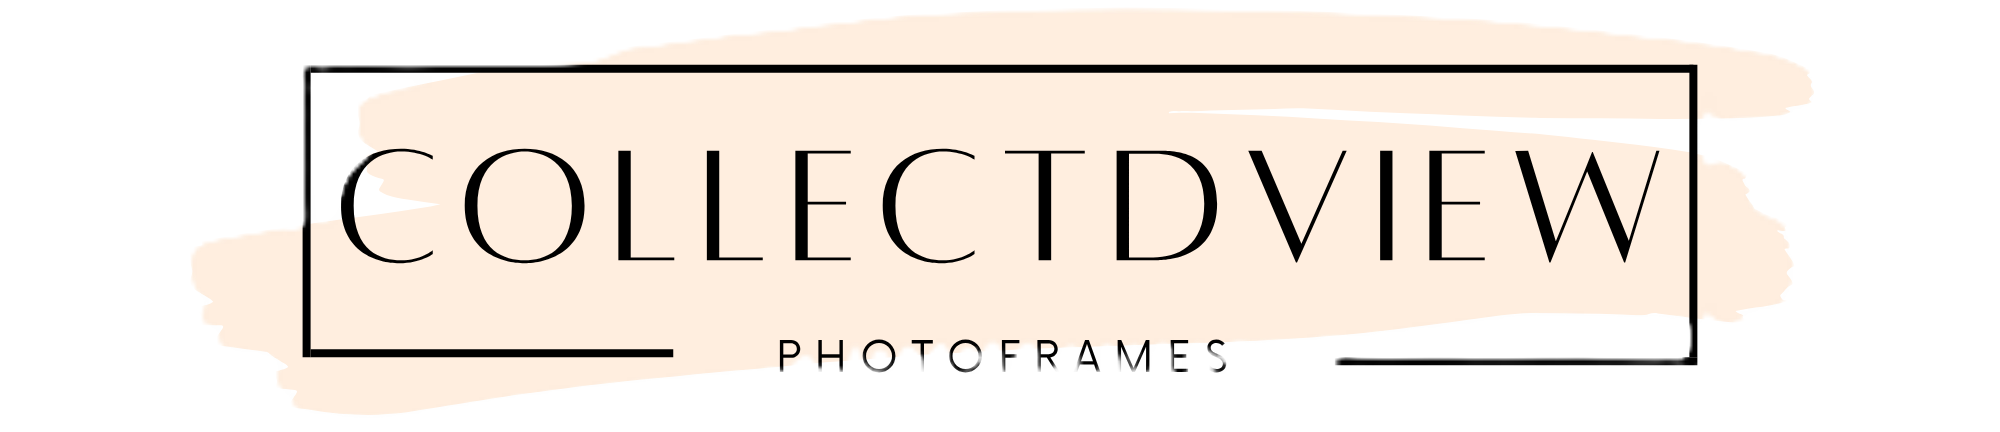
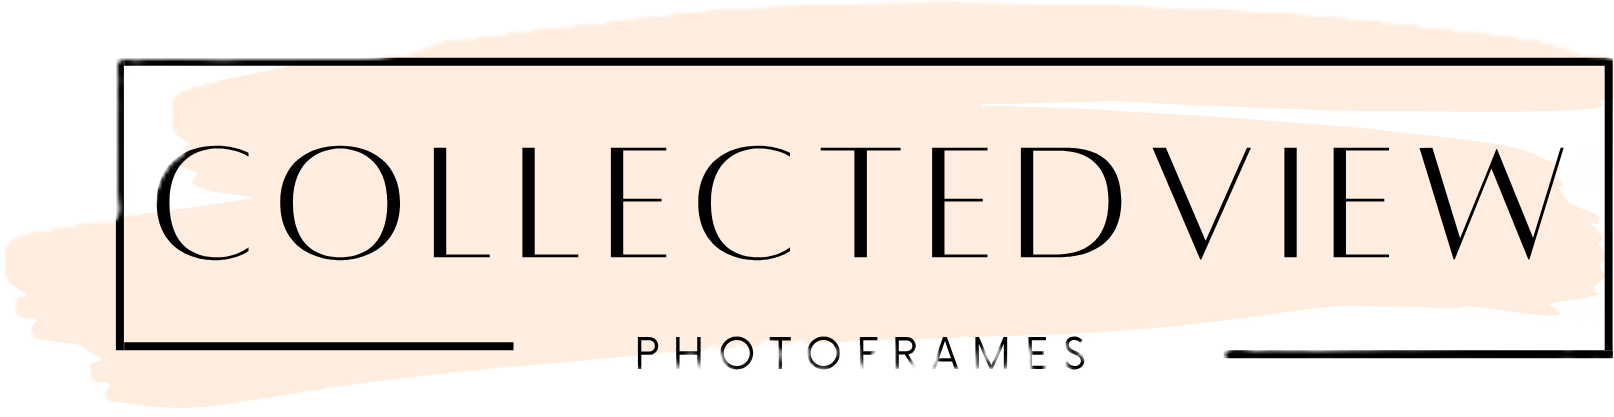
second

Changed region(s): [[0.0, 0.0, 1.0, 0.9976]]

diff --git a/home.html b/home.html
@@ -11,9 +11,15 @@
         #menu-toggle:checked ~ #mobile-menu {
             display: block;
         }
+        /* Ensuring no extra space at the bottom */
+        html, body {
+            margin: 0;
+            padding: 0;
+            overflow-x: hidden;
+        }
     </style>
 </head>
-<body class="bg-gray-50 font-sans">
+<body class="bg-gray-50 font-sans flex flex-col min-h-screen">
 
     <nav class="bg-white shadow-md sticky top-0 z-50">
         <div class="max-w-7xl mx-auto px-4 flex justify-between items-center h-20 md:h-24">
@@ -46,69 +52,68 @@
         </div>
     </nav>
 
-    <header class="relative h-[70vh] flex items-center justify-center text-center text-white">
-        <img src="https://images.unsplash.com/photo-1513519245088-0e12902e5a38?auto=format&fit=crop&q=80&w=2070" 
-             alt="Frames Background" class="absolute inset-0 w-full h-full object-cover brightness-50">
-        <div class="relative z-10 px-4">
-            <h2 class="text-4xl md:text-6xl font-serif mb-4">Preserve Your Memories</h2>
-            <p class="text-lg md:text-xl mb-8 max-w-2xl mx-auto">Premium quality custom frames for your photos, art, and special moments.</p>
-            <a href="PRINT.HTML" class="bg-white text-gray-900 px-8 py-3 rounded-lg font-bold hover:bg-gray-200 transition">PRINT YOUR MEMORIES</a>
-        </div>
-    </header>
+    <main class="flex-grow">
+        <header class="relative h-[70vh] flex items-center justify-center text-center text-white">
+            <img src="https://images.unsplash.com/photo-1513519245088-0e12902e5a38?auto=format&fit=crop&q=80&w=2070" 
+                 alt="Frames Background" class="absolute inset-0 w-full h-full object-cover brightness-50">
+            <div class="relative z-10 px-4">
+                <h2 class="text-4xl md:text-6xl font-serif mb-4">Preserve Your Memories</h2>
+                <p class="text-lg md:text-xl mb-8 max-w-2xl mx-auto">Premium quality custom frames for your photos, art, and special moments.</p>
+                <a href="PRINT.HTML" class="bg-white text-gray-900 px-8 py-3 rounded-lg font-bold hover:bg-gray-200 transition">PRINT YOUR MEMORIES</a>
+            </div>
+        </header>
 
-    <section id="services" class="py-16 px-6 max-w-6xl mx-auto">
-        <h3 class="text-3xl font-bold text-center mb-12">Our Services</h3>
-        <div class="grid md:grid-cols-3 gap-8">
-            <div class="bg-white p-6 rounded-xl shadow-sm border border-gray-100 hover:shadow-lg transition">
-                <i class="fa-solid fa-frame text-4xl text-amber-600 mb-4"></i>
-                <h4 class="text-xl font-bold mb-2">Custom Framing</h4>
-                <p class="text-gray-600">Tailor-made frames available in wood, metal, and synthetic materials.</p>
+        <section id="services" class="py-16 px-6 max-w-6xl mx-auto">
+            <h3 class="text-3xl font-bold text-center mb-12">Our Services</h3>
+            <div class="grid md:grid-cols-3 gap-8">
+                <div class="bg-white p-6 rounded-xl shadow-sm border border-gray-100 hover:shadow-lg transition">
+                    <i class="fa-solid fa-frame text-4xl text-amber-600 mb-4"></i>
+                    <h4 class="text-xl font-bold mb-2">Custom Framing</h4>
+                    <p class="text-gray-600">Tailor-made frames available in wood, metal, and synthetic materials.</p>
+                </div>
+                <div class="bg-white p-6 rounded-xl shadow-sm border border-gray-100 hover:shadow-lg transition">
+                    <i class="fa-solid fa-image text-4xl text-amber-600 mb-4"></i>
+                    <h4 class="text-xl font-bold mb-2">Canvas Printing</h4>
+                    <p class="text-gray-600">High-quality prints on premium canvas with gallery wrap options.</p>
+                </div>
+                <div class="bg-white p-6 rounded-xl shadow-sm border border-gray-100 hover:shadow-lg transition">
+                    <i class="fa-solid fa-gift text-4xl text-amber-600 mb-4"></i>
+                    <h4 class="text-xl font-bold mb-2">Gift Framing</h4>
+                    <p class="text-gray-600">Specially designed frames for birthdays, weddings, and anniversaries.</p>
+                </div>
             </div>
-            <div class="bg-white p-6 rounded-xl shadow-sm border border-gray-100 hover:shadow-lg transition">
-                <i class="fa-solid fa-image text-4xl text-amber-600 mb-4"></i>
-                <h4 class="text-xl font-bold mb-2">Canvas Printing</h4>
-                <p class="text-gray-600">High-quality prints on premium canvas with gallery wrap options.</p>
-            </div>
-            <div class="bg-white p-6 rounded-xl shadow-sm border border-gray-100 hover:shadow-lg transition">
-                <i class="fa-solid fa-gift text-4xl text-amber-600 mb-4"></i>
-                <h4 class="text-xl font-bold mb-2">Gift Framing</h4>
-                <p class="text-gray-600">Specially designed frames for birthdays, weddings, and anniversaries.</p>
-            </div>
-        </div>
-        <div class="text-center mt-10">
-            <a href="#" class="text-amber-600 font-bold hover:underline">Explore All Services &rarr;</a>
-        </div>
-    </section>
+        </section>
 
-    <section id="gallery" class="bg-gray-100 py-16 px-6">
-        <h3 class="text-3xl font-bold text-center mb-12">CATEGORIES</h3>
-        <div class="grid grid-cols-2 md:grid-cols-4 gap-4 max-w-6xl mx-auto">
-            <div class="h-64 bg-gray-300 rounded-lg overflow-hidden border-4 border-white shadow">
-                <img src="https://images.unsplash.com/photo-1582555172866-f73bb12a2ab3?auto=format&fit=crop&q=80&w=500" class="w-full h-full object-cover">
+        <section id="gallery" class="bg-gray-100 py-16 px-6">
+            <h3 class="text-3xl font-bold text-center mb-12">CATEGORIES</h3>
+            <div class="grid grid-cols-2 md:grid-cols-4 gap-4 max-w-6xl mx-auto">
+                <div class="h-64 bg-gray-300 rounded-lg overflow-hidden border-4 border-white shadow">
+                    <img src="https://images.unsplash.com/photo-1582555172866-f73bb12a2ab3?auto=format&fit=crop&q=80&w=500" class="w-full h-full object-cover">
+                </div>
+                <div class="h-64 bg-gray-300 rounded-lg overflow-hidden border-4 border-white shadow">
+                    <img src="https://images.unsplash.com/photo-1544457070-4cd773b4d71e?auto=format&fit=crop&q=80&w=500" class="w-full h-full object-cover">
+                </div>
+                <div class="h-64 bg-gray-300 rounded-lg overflow-hidden border-4 border-white shadow">
+                    <img src="https://images.unsplash.com/photo-1579783902614-a3fb3927b6a5?auto=format&fit=crop&q=80&w=500" class="w-full h-full object-cover">
+                </div>
+                <div class="h-64 bg-gray-300 rounded-lg overflow-hidden border-4 border-white shadow">
+                    <img src="https://images.unsplash.com/photo-1513519245088-0e12902e5a38?auto=format&fit=crop&q=80&w=500" class="w-full h-full object-cover">
+                </div>
             </div>
-            <div class="h-64 bg-gray-300 rounded-lg overflow-hidden border-4 border-white shadow">
-                <img src="https://images.unsplash.com/photo-1544457070-4cd773b4d71e?auto=format&fit=crop&q=80&w=500" class="w-full h-full object-cover">
+            <div class="text-center mt-10">
+                <a href="PRINT.HTML" class="bg-amber-600 text-white px-8 py-3 rounded-lg font-bold hover:bg-amber-700 transition">PRINT YOUR MEMORIES</a>
             </div>
-            <div class="h-64 bg-gray-300 rounded-lg overflow-hidden border-4 border-white shadow">
-                <img src="https://images.unsplash.com/photo-1579783902614-a3fb3927b6a5?auto=format&fit=crop&q=80&w=500" class="w-full h-full object-cover">
-            </div>
-            <div class="h-64 bg-gray-300 rounded-lg overflow-hidden border-4 border-white shadow">
-                <img src="https://images.unsplash.com/photo-1513519245088-0e12902e5a38?auto=format&fit=crop&q=80&w=500" class="w-full h-full object-cover">
-            </div>
-        </div>
-        <div class="text-center mt-10">
-            <a href="PRINT.HTML" class="bg-amber-600 text-white px-8 py-3 rounded-lg font-bold hover:bg-amber-700 transition">PRINT YOUR MEMORIES</a>
-        </div>
-    </section>
+        </section>
+    </main>
 
-    <footer id="contact" class="bg-gray-900 text-white py-12 px-6 text-center">
-        <h3 class="text-2xl font-bold mb-4">Ready to frame your story?</h3>
-        <p class="text-gray-400 mb-6">Contact us at: +91 98765 43210 | info@framestudio.com</p>
-        <div class="flex justify-center space-x-6 text-2xl mb-8">
+    <footer id="contact" class="bg-gray-900 text-white py-6 px-6 text-center">
+        <h3 class="text-xl font-bold mb-2">Ready to frame your story?</h3>
+        <p class="text-gray-400 text-sm mb-4">Contact: +91 98765 43210 | info@collectdview.com</p>
+        <div class="flex justify-center space-x-6 text-xl mb-4">
             <a href="#" class="hover:text-amber-500"><i class="fa-brands fa-instagram"></i></a>
             <a href="#" class="hover:text-amber-500"><i class="fa-brands fa-whatsapp"></i></a>
         </div>
-        <p class="text-sm text-gray-500 border-t border-gray-800 pt-8">&copy; 2026 CollectdView. All rights reserved.</p>
+        <p class="text-xs text-gray-500 border-t border-gray-800 pt-4">&copy; 2026 CollectedView. All rights reserved.</p>
     </footer>
 
 </body>

diff --git a/GALLERY.HTML b/GALLERY.HTML
@@ -11,9 +11,16 @@
         #menu-toggle:checked ~ #mobile-menu {
             display: block;
         }
+        /* Ensuring no extra space at the bottom on mobile */
+        html, body {
+            margin: 0;
+            padding: 0;
+            overflow-x: hidden;
+            height: 100%;
+        }
     </style>
 </head>
-<body class="bg-gray-50 font-sans">
+<body class="bg-gray-50 font-sans flex flex-col min-h-screen">
 
     <nav class="bg-white shadow-md sticky top-0 z-50">
         <div class="max-w-7xl mx-auto px-4 flex justify-between items-center h-20 md:h-24">
@@ -46,27 +53,29 @@
         </div>
     </nav>
 
-    <header class="bg-gray-900 py-16 text-center text-white">
-        <h2 class="text-4xl font-serif mb-2 tracking-wide">Our Work Gallery</h2>
-        <p class="text-gray-400 max-w-lg mx-auto">Explore our premium custom framing and art collection crafted with precision.</p>
-    </header>
+    <main class="flex-grow">
+        <header class="bg-gray-900 py-16 text-center text-white">
+            <h2 class="text-4xl font-serif mb-2 tracking-wide uppercase">Our Work Gallery</h2>
+            <p class="text-gray-400 max-w-lg mx-auto px-4 text-sm md:text-base">Explore our premium custom framing and art collection crafted with precision.</p>
+        </header>
 
-    <section class="py-12 px-6 max-w-7xl mx-auto">
-        <div id="drive-gallery" class="grid grid-cols-1 sm:grid-cols-2 md:grid-cols-3 lg:grid-cols-4 gap-8">
-            <div id="loader" class="col-span-full text-center py-10">
-                <p class="text-gray-500 animate-pulse text-lg">Loading your masterpieces...</p>
+        <section class="py-12 px-6 max-w-7xl mx-auto">
+            <div id="drive-gallery" class="grid grid-cols-1 sm:grid-cols-2 md:grid-cols-3 lg:grid-cols-4 gap-8">
+                <div id="loader" class="col-span-full text-center py-10">
+                    <p class="text-gray-500 animate-pulse text-lg">Loading your masterpieces...</p>
+                </div>
             </div>
-        </div>
-    </section>
+        </section>
+    </main>
 
-    <footer class="bg-gray-900 text-white py-12 px-6 text-center">
-        <h3 class="text-2xl font-bold mb-4">Want a custom frame?</h3>
-        <p class="text-gray-400 mb-6 font-light">Contact us at: +91 98765 43210 | info@framestudio.com</p>
-        <div class="flex justify-center space-x-8 text-2xl mb-8">
+    <footer class="bg-gray-900 text-white py-6 px-6 text-center">
+        <h3 class="text-xl font-bold mb-2">Want a custom frame?</h3>
+        <p class="text-gray-400 text-sm mb-4">Contact: +91 98765 43210 | info@collectdview.com</p>
+        <div class="flex justify-center space-x-8 text-xl mb-4">
             <a href="#" class="hover:text-amber-500 transition"><i class="fa-brands fa-instagram"></i></a>
             <a href="https://wa.me/919876543210" class="hover:text-amber-500 transition"><i class="fa-brands fa-whatsapp"></i></a>
         </div>
-        <p class="text-xs text-gray-500 border-t border-gray-800 pt-8 uppercase tracking-widest">© 2026 CollectdView. All rights reserved.</p>
+        <p class="text-xs text-gray-500 border-t border-gray-800 pt-4 uppercase tracking-widest">© 2026 CollectedView. All rights reserved.</p>
     </footer>
 
     <script>

diff --git a/PRINT.HTML b/PRINT.HTML
@@ -9,9 +9,17 @@
     <style>
         /* Mobile menu toggle logic */
         #menu-toggle:checked ~ #mobile-menu { display: block; }
+        
+        /* Stop extra scrolling on mobile */
+        html, body {
+            margin: 0;
+            padding: 0;
+            overflow-x: hidden;
+            height: 100%;
+        }
     </style>
 </head>
-<body class="bg-gray-50 font-sans">
+<body class="bg-gray-50 font-sans flex flex-col min-h-screen">
 
     <nav class="bg-white shadow-md sticky top-0 z-50">
         <div class="max-w-7xl mx-auto px-4 flex justify-between items-center h-20 md:h-24">
@@ -44,27 +52,29 @@
         </div>
     </nav>
 
-    <header class="bg-gray-900 py-16 text-center text-white">
-        <h2 class="text-4xl font-serif mb-2 tracking-wide uppercase">PRINT YOUR MEMORIES</h2>
-        <p class="text-gray-400 max-w-lg mx-auto">Choose your favorite design and get it printed on high-quality frames.</p>
-    </header>
+    <main class="flex-grow">
+        <header class="bg-gray-900 py-16 text-center text-white">
+            <h2 class="text-4xl font-serif mb-2 tracking-wide uppercase">PRINT YOUR MEMORIES</h2>
+            <p class="text-gray-400 max-w-lg mx-auto px-4">Choose your favorite design and get it printed on high-quality frames.</p>
+        </header>
 
-    <section class="py-12 px-6 max-w-7xl mx-auto">
-        <div id="drive-gallery" class="grid grid-cols-1 sm:grid-cols-2 md:grid-cols-3 lg:grid-cols-4 gap-8">
-            <div id="loader" class="col-span-full text-center py-10">
-                <p class="text-gray-500 animate-pulse text-lg">Loading your masterpieces...</p>
+        <section class="py-12 px-6 max-w-7xl mx-auto">
+            <div id="drive-gallery" class="grid grid-cols-1 sm:grid-cols-2 md:grid-cols-3 lg:grid-cols-4 gap-8">
+                <div id="loader" class="col-span-full text-center py-10">
+                    <p class="text-gray-500 animate-pulse text-lg">Loading your masterpieces...</p>
+                </div>
             </div>
-        </div>
-    </section>
+        </section>
+    </main>
 
-    <footer class="bg-gray-900 text-white py-12 px-6 text-center">
-        <h3 class="text-2xl font-bold mb-4">Want a custom frame?</h3>
-        <p class="text-gray-400 mb-6 font-light">Contact us at: +91 95188 43849 | info@collectdview.com</p>
-        <div class="flex justify-center space-x-8 text-2xl mb-8">
+    <footer class="bg-gray-900 text-white py-6 px-6 text-center">
+        <h3 class="text-xl font-bold mb-2">Want a custom frame?</h3>
+        <p class="text-gray-400 text-sm mb-4">Contact: +91 95188 43849 | info@collectdview.com</p>
+        <div class="flex justify-center space-x-8 text-xl mb-4">
             <a href="#" class="hover:text-amber-500 transition"><i class="fa-brands fa-instagram"></i></a>
             <a href="https://wa.me/919518843849" class="hover:text-amber-500 transition"><i class="fa-brands fa-whatsapp"></i></a>
         </div>
-        <p class="text-xs text-gray-500 border-t border-gray-800 pt-8 uppercase tracking-widest">© 2026 CollectdView. All rights reserved.</p>
+        <p class="text-xs text-gray-500 border-t border-gray-800 pt-4">© 2026 CollectdView. All rights reserved.</p>
     </footer>
 
     <script>
